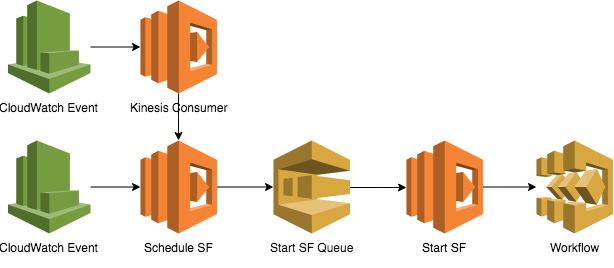
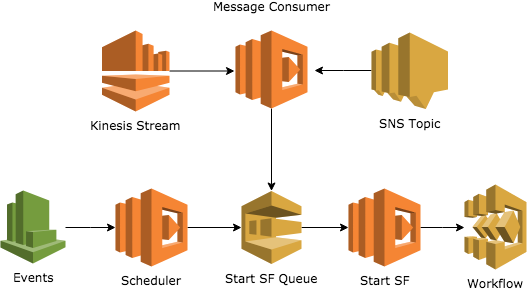
update docs for message consumer

diff --git a/example/spec/parallel/testAPI/snsRuleSpec.js b/example/spec/parallel/testAPI/snsRuleSpec.js
@@ -1,5 +1,7 @@
 'use strict';
 
+const clonedeep = require('lodash.clonedeep');
+
 const {
   rulesApi: rulesApiTestUtils,
   isWorkflowTriggeredByRule,
@@ -24,17 +26,9 @@ const newValueTopicName = timestampedName(`${config.stackName}_SnsRuleValueChang
 const consumerName = `${config.stackName}-messageConsumer`;
 
 const snsMessage = '{"Data":{}}';
-
-const snsRuleDefinition = {
-  name: ruleName,
-  workflow: 'HelloWorldWorkflow',
-  rule: {
-    type: 'sns'
-  },
-  meta: {
-    triggerRule: ruleName
-  }
-};
+const snsRuleDefinition = clonedeep(require('./snsRuleDef.json'));
+snsRuleDefinition.name = ruleName;
+snsRuleDefinition.meta.triggerRule = ruleName;
 
 async function getNumberOfTopicSubscriptions(snsTopicArn) {
   const subs = await SNS.listSubscriptionsByTopic({ TopicArn: snsTopicArn }).promise();

diff --git a/docs/data-cookbooks/setup.md b/docs/data-cookbooks/setup.md
@@ -72,9 +72,10 @@ _The above optional attributes are not shown in the example provided, but they h
 
 ### Rules
 
-Rules are used by to start processing workflows and the transformation process. Rules can be invoked manually, based on a schedule, or can be configured to be triggered by events in [Kinesis](data-cookbooks/cnm-workflow.md). The current best way to understand rules is to take a look at the [schema](https://github.com/nasa/cumulus/tree/master/packages/api/models/schemas.js) (specifically the object assigned to `module.exports.rule`). Rules can be viewed, edited, added, and removed from the Cumulus dashboard under the "Rules" navigation tab. Additionally, they can be managed via the [rules api](https://nasa.github.io/cumulus-api/?language=Python#list-rules).
+Rules are used by to start processing workflows and the transformation process. Rules can be invoked manually, based on a schedule, or can be configured to be triggered by either events in [Kinesis](data-cookbooks/cnm-workflow.md) or SNS messages. The current best way to understand rules is to take a look at the [schema](https://github.com/nasa/cumulus/tree/master/packages/api/models/schemas.js) (specifically the object assigned to `module.exports.rule`). Rules can be viewed, edited, added, and removed from the Cumulus dashboard under the "Rules" navigation tab. Additionally, they can be managed via the [rules api](https://nasa.github.io/cumulus-api/?language=Python#list-rules).
 
 The Cumulus Core repository has an example of a Kinesis rule [here](https://github.com/nasa/cumulus/blob/master/example/data/rules/L2_HR_PIXC_kinesisRule.json).
+An example of an SNS rule configuration is [here](https://github.com/nasa/cumulus/blob/master/example/spec/parallel/testAPI/snsRuleDef.json).
 
 |Key  |Value  |Required|Description|
 |:---:|:-----:|:------:|-----------|
@@ -95,7 +96,7 @@ The Cumulus Core repository has an example of a Kinesis rule [here](https://gith
 #### rule-object
 |Key|Value|Required|Description|
 |:---:|:-----:|:------:|-----------|
-|type|`"kinesis"`|Yes|<code>("onetime"&#124;"scheduled"&#124;"kinesis")</code> type of scheduling/workflow kick-off desired|
+|type|`"kinesis"`|Yes|<code>("onetime"&#124;"scheduled"&#124;"kinesis"&#124;"sns")</code> type of scheduling/workflow kick-off desired|
 |value|`<String> Object`|Depends|Discussion of valid values is [below](#rule-value)|
 
 
@@ -104,4 +105,4 @@ The `rule - value` entry depends on the type of run:
   * If this is a onetime rule this can be left blank. [Example](data-cookbooks/hello-world.md/#execution)
   * If this is a scheduled rule this field must hold a valid [cron-type expression or rate expression](https://docs.aws.amazon.com/AmazonCloudWatch/latest/events/ScheduledEvents.html).
   * If this is a kinesis rule, this must be a configured `${Kinesis_stream_ARN}`. [Example](data-cookbooks/cnm-workflow.md#rule-configuration)
-
+  * If this is an sns rule, this must be an existing `${SNS_Topic_Arn}`. [Example](https://github.com/nasa/cumulus/blob/master/example/spec/parallel/testAPI/snsRuleDef.json)

diff --git a/docs/workflows/workflow-triggers.md b/docs/workflows/workflow-triggers.md
@@ -7,12 +7,16 @@ hide_title: true
 # Workflow Triggers
 For a workflow to run, it needs to be associated with a rule (see [rule configuration](data-cookbooks/setup.md#rules). The rule configuration determines how and when a workflow execution is triggered. Rules can be triggered one time, on a schedule, or by new data written to a kinesis stream.
 
-There are three lambda functions in the API package responsible for scheduling and starting workflows: `SF scheduler`, `kinesis consumer`, `and SF starter`. Each Cumulus instance comes with a Start SF [SQS queue](https://aws.amazon.com/sqs/).
+There are three lambda functions in the API package responsible for scheduling and starting workflows: `SF scheduler`, `message consumer`, `and SF starter`. Each Cumulus instance comes with a Start SF [SQS queue](https://aws.amazon.com/sqs/).
 
 The `SF scheduler` lambda puts a message onto the `start SF` queue. This message is picked up the `Start SF` lambda and an execution is started with the body of the message as the input.
 
 When a one time rule is created, the `schedule SF` lambda is triggered. Rules that are not one time are associated with a [CloudWatch event](https://docs.aws.amazon.com/AmazonCloudWatch/latest/events/WhatIsCloudWatchEvents.html) which will manage the trigger of the lambdas that trigger the workflows.
 
-For a scheduled rule, the Cloudwatch event is triggered on the given schedule which calls directly to the `schedule SF` lambda. For a kinesis rule, when data is added to the kinesis stream, the Cloudwatch event is triggered, which calls the `kinesis consumer` lambda. The `kinesis consumer` lambda parses the kinesis message and finds all of the rules associated with that message. For each rule (which corresponds to one workflow), the `schedule SF` lambda is triggered to queue a message to start the workflow.
+For a scheduled rule, the Cloudwatch event is triggered on the given schedule which calls directly to the `schedule SF` lambda. 
+
+For a kinesis rule, when data is added to the kinesis stream, the Cloudwatch event is triggered, which calls the `message consumer` lambda. The `message consumer` lambda parses the kinesis message and finds all of the rules associated with that message. For each rule (which corresponds to one workflow), the `schedule SF` lambda is triggered to queue a message to start the workflow.
+
+For an sns rule, when a message is published to the SNS topic, the `message consumer` receives the SNS message (JSON expected), parses it into an object, starts a new execution of the workflow associated with the rule and passes the object in the `payload` field of the Cumulus message.
 
 ![](assets/schedule-workflows.png)

diff --git a/CHANGELOG.md b/CHANGELOG.md
@@ -8,6 +8,7 @@ and this project adheres to [Semantic Versioning](http://semver.org/spec/v2.0.0.
 
 **Please Note**
 -  CUMULUS-817 includes a migration that requires reconfiguration/redeployment of IAM roles.  Please see the [upgrade instructions](https://nasa.github.io/cumulus/docs/upgrade/1.11.0) for more information.
+- CUMULUS-977 includes a few new SNS-related permissions added to the IAM roles that will require redeployment of IAM roles.
 - `cumulus-message-adapter` v1.0.13+ is required for `@cumulus/api` granule reingest API to work properly.  The latest version should be downloaded automatically by kes.
 
 ### Changed
@@ -20,6 +21,12 @@ and this project adheres to [Semantic Versioning](http://semver.org/spec/v2.0.0.
 - **CUMULUS-793** - Updated the granule move PUT request in `@cumulus/api` to reject the move with a 409 status code if one or more of the files already exist at the destination location
 
 ### Added
+- **CUMULUS-977**
+  - Rename `kinesisConsumer` to `messageConsumer` as it handles both Kinesis streams and SNS topics as of this version.
+  - Add `sns`-type rule support. These rules create a subscription between an SNS topic and the `messageConsumer`.
+    When a message is received, `messageConsumer` is triggered and passes the SNS message (JSON format expected) in
+    its entirety to the workflow in the `payload` field of the Cumulus message. For more information on sns-type rules,
+    see the [documentation](https://nasa.github.io/cumulus/docs/data-cookbooks/setup#rules).
 - **CUMULUS-975**
   - Add `KinesisInboundEventLogger` and `KinesisOutboundEventLogger` API lambdas.  These lambdas
     are utilized to dump incoming and outgoing ingest workflow kinesis streams

diff --git a/docs/system-documentation/system-documentation.md b/docs/system-documentation/system-documentation.md
@@ -36,6 +36,6 @@ If a workflow errors, the error will be handled according to the [error handling
 
 Generally, first check your rule configuration. If that is satisfactory, the answer will likely be in the CloudWatch logs for the schedule SF or SF starter lambda functions. See the [workflow triggers](workflows/workflow-triggers.md) page for more information on how workflows start.
 
-For Kinesis rules specifically, if an error occurs during the kinesis consumer process, the fallback consumer lambda will be called and if the message continues to error, a message will be placed on the dead letter queue. Check the dead letter queue for a failure message. Errors can be traced back to the CloudWatch logs for the kinesis consumer and the fallback consumer.
+For Kinesis rules specifically, if an error occurs during the message consumer process, the fallback consumer lambda will be called and if the message continues to error, a message will be placed on the dead letter queue. Check the dead letter queue for a failure message. Errors can be traced back to the CloudWatch logs for the message consumer and the fallback consumer.
 
 More information on kinesis error handling is [here](data-cookbooks/cnm-workflow.md#kinesis-record-error-handling).
